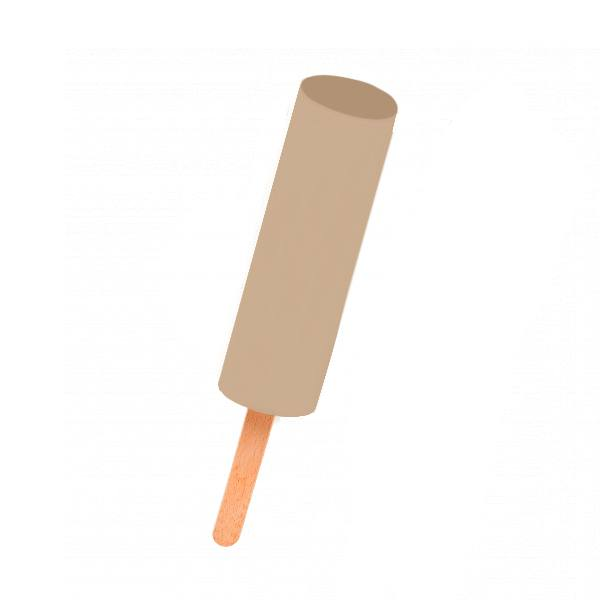
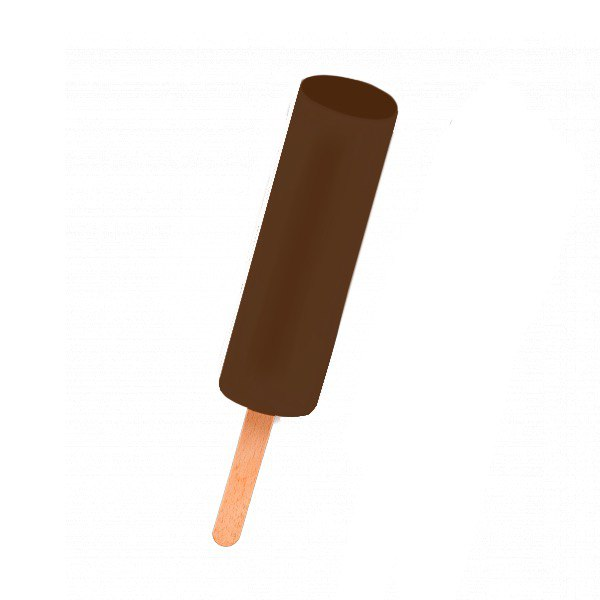
Add files via upload

Changed region(s): [[0.36, 0.12, 0.66, 0.72]]

diff --git a/index.html b/index.html
@@ -8,9 +8,9 @@
     <h1 class="title">Добро пожаловать в наш магазин</h1>
     <div class="products" id="products">
         <div class="product">
-            <img src="./assert/img/van-wh-bl.jpg" alt="Товар 1">
+            <img src="./assert/img/van-milk-chok.jpg" alt="Товар 1">
             <div class="product-info">
-                <h2>Крем-брюле в молочном шоколаде</h2>
+                <h2>Ваниль в молочном шоколаде</h2>
                 <!-- <p>Описание товара 1</p> -->
                 <p><span class="price">250</span> ₽</p>
             </div>
@@ -22,9 +22,9 @@
             </div>
         </div>
         <div class="product">
-            <img src="./assert/img/van-black.jpg" alt="Товар 2">
+            <img src="./assert/img/van-black-chok.jpg" alt="Товар 2">
             <div class="product-info">
-                <h2>Крем-брюле в темном шоколаде</h2>
+                <h2>Ваниль в темном шоколаде</h2>
                 <!-- <p>Описание товара 1</p> -->
                 <p><span class="price">250</span> ₽</p>
             </div>
@@ -39,7 +39,7 @@
             <img src="./assert/img/van-white.jpg" alt="Товар 3">
             <div class="cart-quantity" hidden>0</div>
             <div class="product-info">
-                <h2>Крем-брюле в белом шоколаде</h2>
+                <h2>Ваниль в белом шоколаде</h2>
                 <!-- <p>Описание товара 1</p> -->
                 <p><span class="price">250</span> ₽</p>
             </div>
@@ -51,10 +51,10 @@
             </div>
         </div>
         <div class="product">
-            <img src="./assert/img/brule.jpg" alt="Товар 4">
+            <img src="./assert/img/choko-milk-choko.jpg" alt="Товар 4">
             <div class="cart-quantity" hidden>0</div>
             <div class="product-info">
-                <h2>Крем-брюле без глазури</h2>
+                <h2>Шоколадное в молочном шоколаде</h2>
                 <!-- <p>Описание товара 1</p> -->
                 <p><span class="price">250</span> ₽</p>
             </div>
@@ -66,7 +66,82 @@
             </div>
         </div>
         <div class="product">
-            <img src="./assert/img/van-wh-bl.jpg" alt="Товар 5">
+            <img src="./assert/img/choko-milk-choko.jpg" alt="Товар 5">
+            <div class="cart-quantity" hidden>0</div>
+            <div class="product-info">
+                <h2>Шоколадное в темном шоколаде</h2>
+                <!-- <p>Описание товара 1</p> -->
+                <p><span class="price">250</span> ₽</p>
+            </div>
+            <button class="add-to-cart">В корзину</button>
+            <!-- <div class="cart-quantity" hidden>0</div> -->
+            <div class="quantity-controls" hidden>
+                <button class="increment">+</button>
+                <button class="decrement">-</button>
+            </div>
+        </div>
+        <div class="product">
+            <img src="./assert/img/choko-whitte-choko.jpg" alt="Товар 6">
+            <div class="cart-quantity" hidden>0</div>
+            <div class="product-info">
+                <h2>Шоколадное в белом шоколаде</h2>
+                <!-- <p>Описание товара 1</p> -->
+                <p><span class="price">250</span> ₽</p>
+            </div>
+            <button class="add-to-cart">В корзину</button>
+            <!-- <div class="cart-quantity" hidden>0</div> -->
+            <div class="quantity-controls" hidden>
+                <button class="increment">+</button>
+                <button class="decrement">-</button>
+            </div>
+        </div>
+        <div class="product">
+            <img src="./assert/img/brule-milk-choko.jpg" alt="Товар 7">
+            <div class="cart-quantity" hidden>0</div>
+            <div class="product-info">
+                <h2>Крем брюле в молочном шоколаде</h2>
+                <!-- <p>Описание товара 1</p> -->
+                <p><span class="price">250</span> ₽</p>
+            </div>
+            <button class="add-to-cart">В корзину</button>
+            <!-- <div class="cart-quantity" hidden>0</div> -->
+            <div class="quantity-controls" hidden>
+                <button class="increment">+</button>
+                <button class="decrement">-</button>
+            </div>
+        </div>
+        <div class="product">
+            <img src="./assert/img/brule-black-choko.jpg" alt="Товар 8">
+            <div class="cart-quantity" hidden>0</div>
+            <div class="product-info">
+                <h2>Крем брюле в темном шоколаде</h2>
+                <!-- <p>Описание товара 1</p> -->
+                <p><span class="price">250</span> ₽</p>
+            </div>
+            <button class="add-to-cart">В корзину</button>
+            <div class="cart-quantity" hidden>0</div>
+            <div class="quantity-controls" hidden>
+                <button class="increment">+</button>
+                <button class="decrement">-</button>
+            </div>
+        </div>
+        <div class="product">
+            <img src="./assert/img/brule-whit-choko.jpg" alt="Товар 9">
+            <div class="cart-quantity" hidden>0</div>
+            <div class="product-info">
+                <h2>Крем брюле в белом шоколаде</h2>
+                <!-- <p>Описание товара 1</p> -->
+                <p><span class="price">250</span> ₽</p>
+            </div>
+            <button class="add-to-cart">В корзину</button>
+            <div class="cart-quantity" hidden>0</div>
+            <div class="quantity-controls" hidden>
+                <button class="increment">+</button>
+                <button class="decrement">-</button>
+            </div>
+        </div>
+        <div class="product">
+            <img src="./assert/img/str-milk-chocko.jpg" alt="Товар 10">
             <div class="cart-quantity" hidden>0</div>
             <div class="product-info">
                 <h2>Клубничное в молочном шоколаде</h2>
@@ -74,14 +149,14 @@
                 <p><span class="price">250</span> ₽</p>
             </div>
             <button class="add-to-cart">В корзину</button>
-            <!-- <div class="cart-quantity" hidden>0</div> -->
+            <div class="cart-quantity" hidden>0</div>
             <div class="quantity-controls" hidden>
                 <button class="increment">+</button>
                 <button class="decrement">-</button>
             </div>
         </div>
         <div class="product">
-            <img src="./assert/img/van-black.jpg" alt="Товар 6">
+            <img src="./assert/img/str-black-choko.jpg" alt="Товар 11">
             <div class="cart-quantity" hidden>0</div>
             <div class="product-info">
                 <h2>Клубничное в темном шоколаде</h2>
@@ -89,14 +164,14 @@
                 <p><span class="price">250</span> ₽</p>
             </div>
             <button class="add-to-cart">В корзину</button>
-            <!-- <div class="cart-quantity" hidden>0</div> -->
+            <div class="cart-quantity" hidden>0</div>
             <div class="quantity-controls" hidden>
                 <button class="increment">+</button>
                 <button class="decrement">-</button>
-            </div>
+          </div>
         </div>
         <div class="product">
-            <img src="./assert/img/strawberry.jpg" alt="Товар 7">
+            <img src="./assert/img/str-white-chocko.jpg" alt="Товар 11">
             <div class="cart-quantity" hidden>0</div>
             <div class="product-info">
                 <h2>Клубничное в белом шоколаде</h2>
@@ -104,56 +179,116 @@
                 <p><span class="price">250</span> ₽</p>
             </div>
             <button class="add-to-cart">В корзину</button>
-            <!-- <div class="cart-quantity" hidden>0</div> -->
+            <div class="cart-quantity" hidden>0</div>
             <div class="quantity-controls" hidden>
                 <button class="increment">+</button>
                 <button class="decrement">-</button>
             </div>
         </div>
         <div class="product">
-            <img src="./assert/img/orang-wh-bl.jpg" alt="Товар 8">
-            <div class="cart-quantity" hidden>0</div>
-            <div class="product-info">
-                <h2>Апельсин в молочном шоколаде</h2>
-                <!-- <p>Описание товара 1</p> -->
-                <p><span class="price">250</span> ₽</p>
+                <img src="./assert/img/mango-milk.jpg" alt="Товар 11">
+                <div class="cart-quantity" hidden>0</div>
+                <div class="product-info">
+                    <h2>Манго в молочном шоколаде</h2>
+                    <!-- <p>Описание товара 1</p> -->
+                    <p><span class="price">300</span> ₽</p>
+                </div>
+                <button class="add-to-cart">В корзину</button>
+                <div class="cart-quantity" hidden>0</div>
+                <div class="quantity-controls" hidden>
+                    <button class="increment">+</button>
+                    <button class="decrement">-</button>
             </div>
-            <button class="add-to-cart">В корзину</button>
-            <!-- <div class="cart-quantity" hidden>0</div> -->
-            <div class="quantity-controls" hidden>
-                <button class="increment">+</button>
-                <button class="decrement">-</button>
+        </div> 
+        <div class="product">
+                <img src="./assert/img/mango-black.jpg" alt="Товар 11">
+                <div class="cart-quantity" hidden>0</div>
+                <div class="product-info">
+                    <h2>Манго в темном шоколаде</h2>
+                    <!-- <p>Описание товара 1</p> -->
+                    <p><span class="price">300</span> ₽</p>
+                </div>
+                <button class="add-to-cart">В корзину</button>
+                <div class="cart-quantity" hidden>0</div>
+                <div class="quantity-controls" hidden>
+                    <button class="increment">+</button>
+                    <button class="decrement">-</button>
             </div>
         </div>
         <div class="product">
-            <img src="./assert/img/orange-black.jpg" alt="Товар 9">
-            <div class="cart-quantity" hidden>0</div>
-            <div class="product-info">
-                <h2>Апельсин в темном шоколаде</h2>
-                <!-- <p>Описание товара 1</p> -->
-                <p><span class="price">250</span> ₽</p>
-            </div>
-            <button class="add-to-cart">В корзину</button>
-            <!-- <div class="cart-quantity" hidden>0</div> -->
-            <div class="quantity-controls" hidden>
-                <button class="increment">+</button>
-                <button class="decrement">-</button>
-            </div>
+                <img src="./assert/img/mango-white.jpg" alt="Товар 11">
+                <div class="cart-quantity" hidden>0</div>
+                <div class="product-info">
+                    <h2>Манго в белом шоколаде</h2>
+                    <!-- <p>Описание товара 1</p> -->
+                    <p><span class="price">300</span> ₽</p>
+                </div>
+                <button class="add-to-cart">В корзину</button>
+                <div class="cart-quantity" hidden>0</div>
+                <div class="quantity-controls" hidden>
+                    <button class="increment">+</button>
+                    <button class="decrement">-</button>
+            </div>   
         </div>
         <div class="product">
-            <img src="./assert/img/orange.jpg" alt="Товар 10">
+            <img src="./assert/img/vanil.jpg" alt="Товар 11">
             <div class="cart-quantity" hidden>0</div>
             <div class="product-info">
-                <h2>Апельсин без глазури</h2>
+                <h2>Ванильное без глазури</h2>
                 <!-- <p>Описание товара 1</p> -->
                 <p><span class="price">250</span> ₽</p>
             </div>
             <button class="add-to-cart">В корзину</button>
-            <!-- <div class="cart-quantity" hidden>0</div> -->
+            <div class="cart-quantity" hidden>0</div>
             <div class="quantity-controls" hidden>
                 <button class="increment">+</button>
                 <button class="decrement">-</button>
+            </div>   
+        </div>
+        <div class="product">
+            <img src="./assert/img/brule.jpg" alt="Товар 11">
+            <div class="cart-quantity" hidden>0</div>
+            <div class="product-info">
+                <h2>Шоколадное без глазури</h2>
+                <!-- <p>Описание товара 1</p> -->
+                <p><span class="price">250</span> ₽</p>
             </div>
+            <button class="add-to-cart">В корзину</button>
+            <div class="cart-quantity" hidden>0</div>
+            <div class="quantity-controls" hidden>
+                <button class="increment">+</button>
+                <button class="decrement">-</button>
+            </div>   
+        </div>
+        <div class="product">
+            <img src="./assert/img/choko.jpg" alt="Товар 11">
+            <div class="cart-quantity" hidden>0</div>
+            <div class="product-info">
+                <h2>Крем брюле без глазури</h2>
+                <!-- <p>Описание товара 1</p> -->
+                <p><span class="price">250</span> ₽</p>
+            </div>
+            <button class="add-to-cart">В корзину</button>
+            <div class="cart-quantity" hidden>0</div>
+            <div class="quantity-controls" hidden>
+                <button class="increment">+</button>
+                <button class="decrement">-</button>
+            </div>   
+        </div>
+        <div class="product">
+            <img src="./assert/img/strawberry.jpg" alt="Товар 11">
+            <div class="cart-quantity" hidden>0</div>
+            <div class="product-info">
+                <h2>Клубничное без глазури</h2>
+                <!-- <p>Описание товара 1</p> -->
+                <p><span class="price">250</span> ₽</p>
+            </div>
+            <button class="add-to-cart">В корзину</button>
+            <div class="cart-quantity" hidden>0</div>
+            <div class="quantity-controls" hidden>
+                <button class="increment">+</button>
+                <button class="decrement">-</button>
+            </div>   
         </div>
         <div class="product">
             <img src="./assert/img/mango.jpg" alt="Товар 11">
@@ -164,13 +299,12 @@
                 <p><span class="price">300</span> ₽</p>
             </div>
             <button class="add-to-cart">В корзину</button>
-            <!-- <div class="cart-quantity" hidden>0</div> -->
+            <div class="cart-quantity" hidden>0</div>
             <div class="quantity-controls" hidden>
                 <button class="increment">+</button>
                 <button class="decrement">-</button>
-            </div>
+            </div>   
         </div>
-        
         <!-- Повторите блок с товаром для остальных товаров, обязательно добавив цену для каждого товара -->
     </div>
     <div class="product-fields">
